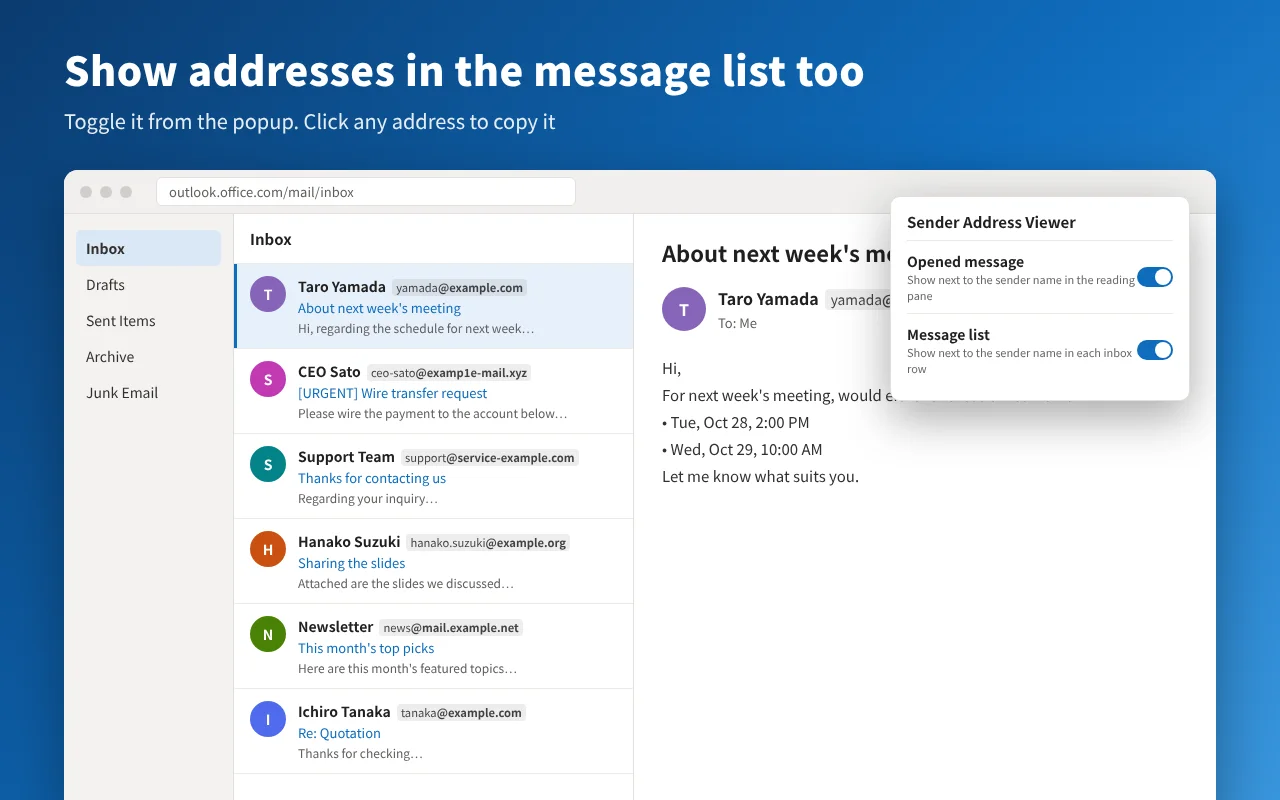
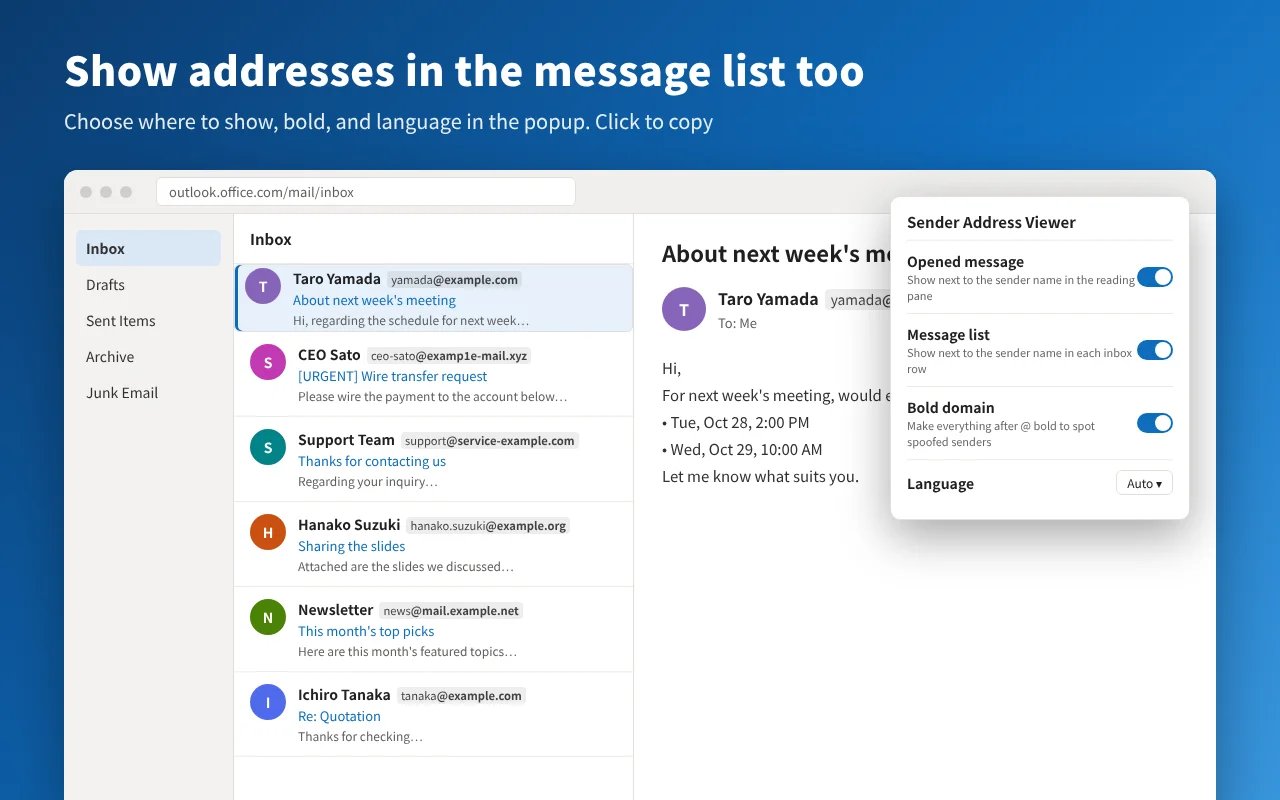
v1.1.0: ドメイン太字のオン・オフと表示言語の切り替えを追加
- ポップアップに「ドメインを太字」トグル（既定 ON）を追加
- 表示言語を 自動 / 日本語 / English から選べるように（ポップアップとバッジの文言）
- homepage_url を公式サイト（GitHub Pages）に変更
- ストア用スクリーンショット・LP・README・掲載文を新仕様に更新

Claude-Session: https://claude.ai/code/session_01Evfy2pwGiwfwWb1YwPUqLL

Changed region(s): [[0.1562, 0.3125, 0.4688, 0.9688], [0.6875, 0.5, 0.9375, 0.6875], [0.0312, 0.125, 0.5625, 0.1875]]

diff --git a/content-main.js b/content-main.js
@@ -11,10 +11,17 @@
   const root = document.documentElement;
   const BADGE = 'osa-badge';
   const EMAIL_RE = /^[^@\s<>]+@[^@\s<>]+\.[^@\s<>]+$/;
-  const JA = (navigator.language || '').toLowerCase().startsWith('ja');
-  const T = JA
-    ? { hint: 'クリックでアドレスをコピー', copied: '✓ コピー' }
-    : { hint: 'Click to copy address', copied: '✓ Copied' };
+  const TEXT = {
+    ja: { hint: 'クリックでアドレスをコピー', copied: '✓ コピー' },
+    en: { hint: 'Click to copy address', copied: '✓ Copied' },
+  };
+  // 言語: ポップアップで選んだ値（ja / en）、自動（auto）ならブラウザの言語
+  const uiLang = () => {
+    const l = root.dataset.osaLang;
+    if (l === 'ja' || l === 'en') return l;
+    return (navigator.language || '').toLowerCase().startsWith('ja') ? 'ja' : 'en';
+  };
+  const T = () => TEXT[uiLang()];
 
   const settings = () => ({
     reading: root.dataset.osaReading !== '0', // 既定 ON
@@ -60,8 +67,8 @@
     const b = document.createElement('span');
     b.className = `${BADGE} ${BADGE}--${kind}`;
     b.dataset.email = email;
-    b.title = T.hint;
-    b.dataset.copiedLabel = T.copied;
+    b.title = T().hint;
+    b.dataset.copiedLabel = T().copied;
     const at = email.lastIndexOf('@');
     const local = document.createElement('span');
     local.className = `${BADGE}__local`;
@@ -126,10 +133,23 @@
     });
   };
 
+  // 言語が切り替わったら、表示中のバッジの文言も更新する
+  let lastLang = null;
+  const relabel = () => {
+    const l = uiLang();
+    if (l === lastLang) return;
+    lastLang = l;
+    document.querySelectorAll(`.${BADGE}`).forEach((b) => {
+      b.title = T().hint;
+      b.dataset.copiedLabel = T().copied;
+    });
+  };
+
   // ---------- 実行ループ ----------
   let scheduled = false;
   const run = () => {
     scheduled = false;
+    relabel();
     const s = settings();
     s.reading ? renderReading() : removeBadges('reading');
     s.list ? renderList() : removeBadges('list');
@@ -150,7 +170,7 @@
 
   new MutationObserver(schedule).observe(root, {
     attributes: true,
-    attributeFilter: ['data-osa-reading', 'data-osa-list'],
+    attributeFilter: ['data-osa-reading', 'data-osa-list', 'data-osa-lang'],
   });
 
   schedule();

diff --git a/docs/index.html b/docs/index.html
@@ -210,7 +210,7 @@ html[lang="en"] [data-ja] { display: none !important; }
       <ul class="features">
         <li><strong data-ja>開いたメールにアドレスを表示</strong><strong data-en>Addresses in the opened message</strong><span data-ja>閲覧ウィンドウの差出人名の右に、メールアドレスを常に表示します。</span><span data-en>The sender's address always appears next to their name in the reading pane.</span></li>
         <li><strong data-ja>メール一覧にも表示</strong><strong data-en>Addresses in the message list</strong><span data-ja>受信トレイの各行にも表示できます。ポップアップのスイッチで切り替えます。</span><span data-en>Optionally show them on every inbox row too. Turn it on from the popup.</span></li>
-        <li><strong data-ja>ドメインを太字に</strong><strong data-en>Bold domains</strong><span data-ja>@ 以降を太字にするので、似せたドメインのなりすましに気づきやすくなります。</span><span data-en>Everything after @ is bold, so look-alike domains stand out.</span></li>
+        <li><strong data-ja>ドメインを太字に</strong><strong data-en>Bold domains</strong><span data-ja>@ 以降を太字にするので、似せたドメインのなりすましに気づきやすくなります。ポップアップでオフにもできます。</span><span data-en>Everything after @ is bold, so look-alike domains stand out. You can turn it off in the popup.</span></li>
         <li><strong data-ja>クリックでコピー</strong><strong data-en>Click to copy</strong><span data-ja>表示されたアドレスをクリックすると、そのままコピーできます。</span><span data-en>Click a shown address to copy it to your clipboard.</span></li>
       </ul>
       <div class="shots">

diff --git a/popup.js b/popup.js
@@ -1,14 +1,39 @@
-const DEFAULTS = { reading: true, list: false };
+const DEFAULTS = { reading: true, list: false, bold: true, lang: 'auto' };
+const TOGGLES = ['reading', 'list', 'bold'];
 
-document.documentElement.lang = chrome.i18n.getUILanguage();
-document.querySelectorAll('[data-i18n]').forEach((el) => {
-  el.textContent = chrome.i18n.getMessage(el.dataset.i18n);
-});
+// 言語を選べるように、chrome.i18n ではなく _locales の messages.json を直接読む
+const cache = {};
+const loadMessages = async (lang) => {
+  if (!cache[lang]) {
+    const res = await fetch(chrome.runtime.getURL(`_locales/${lang}/messages.json`));
+    cache[lang] = await res.json();
+  }
+  return cache[lang];
+};
+const resolveLang = (pref) => {
+  if (pref === 'ja' || pref === 'en') return pref;
+  return chrome.i18n.getUILanguage().toLowerCase().startsWith('ja') ? 'ja' : 'en';
+};
+const applyLang = async (pref) => {
+  const lang = resolveLang(pref);
+  const msgs = await loadMessages(lang);
+  document.documentElement.lang = lang;
+  document.querySelectorAll('[data-i18n]').forEach((el) => {
+    el.textContent = msgs[el.dataset.i18n]?.message ?? '';
+  });
+};
 
-chrome.storage.sync.get(DEFAULTS, (s) => {
-  for (const key of Object.keys(DEFAULTS)) {
+chrome.storage.sync.get(DEFAULTS, async (s) => {
+  for (const key of TOGGLES) {
     const el = document.getElementById(key);
     el.checked = !!s[key];
     el.addEventListener('change', () => chrome.storage.sync.set({ [key]: el.checked }));
   }
+  const sel = document.getElementById('lang');
+  sel.value = s.lang;
+  sel.addEventListener('change', () => {
+    chrome.storage.sync.set({ lang: sel.value });
+    applyLang(sel.value);
+  });
+  await applyLang(s.lang);
 });

diff --git a/popup.html b/popup.html
@@ -20,6 +20,23 @@
     </span>
     <input type="checkbox" id="list" />
   </label>
+  <label class="row">
+    <span>
+      <strong data-i18n="boldLabel"></strong>
+      <small data-i18n="boldDesc"></small>
+    </span>
+    <input type="checkbox" id="bold" />
+  </label>
+  <label class="row">
+    <span>
+      <strong data-i18n="langLabel"></strong>
+    </span>
+    <select id="lang">
+      <option value="auto" data-i18n="langAuto"></option>
+      <option value="ja">日本語</option>
+      <option value="en">English</option>
+    </select>
+  </label>
   <p class="note" data-i18n="note"></p>
   <script src="popup.js"></script>
 </body>

diff --git a/content-bridge.js b/content-bridge.js
@@ -1,12 +1,14 @@
 // Isolated world: chrome.storage の設定を <html> の data 属性に書き出し、
 // MAIN world 側 (content-main.js) に伝える橋渡し役。
 (() => {
-  const DEFAULTS = { reading: true, list: false };
+  const DEFAULTS = { reading: true, list: false, bold: true, lang: 'auto' };
   const root = document.documentElement;
 
   const apply = (s) => {
     root.dataset.osaReading = s.reading ? '1' : '0';
     root.dataset.osaList = s.list ? '1' : '0';
+    root.dataset.osaBold = s.bold ? '1' : '0';
+    root.dataset.osaLang = s.lang;
   };
 
   chrome.storage.sync.get(DEFAULTS, apply);

diff --git a/popup.css b/popup.css
@@ -69,6 +69,16 @@ input[type="checkbox"]:checked {
 input[type="checkbox"]:checked::after {
   transform: translateX(14px);
 }
+select {
+  font: inherit;
+  font-size: 12px;
+  color: var(--fg);
+  background: var(--bg);
+  border: 1px solid var(--line);
+  border-radius: 6px;
+  padding: 4px 6px;
+  max-width: 150px;
+}
 .note {
   margin: 6px 0 0;
   color: var(--sub);

diff --git a/content.css b/content.css
@@ -22,6 +22,9 @@
 .osa-badge__domain {
   font-weight: 600;
 }
+html[data-osa-bold="0"] .osa-badge__domain {
+  font-weight: inherit;
+}
 .osa-badge--list {
   font-size: 0.8em;
   padding: 0 4px;
